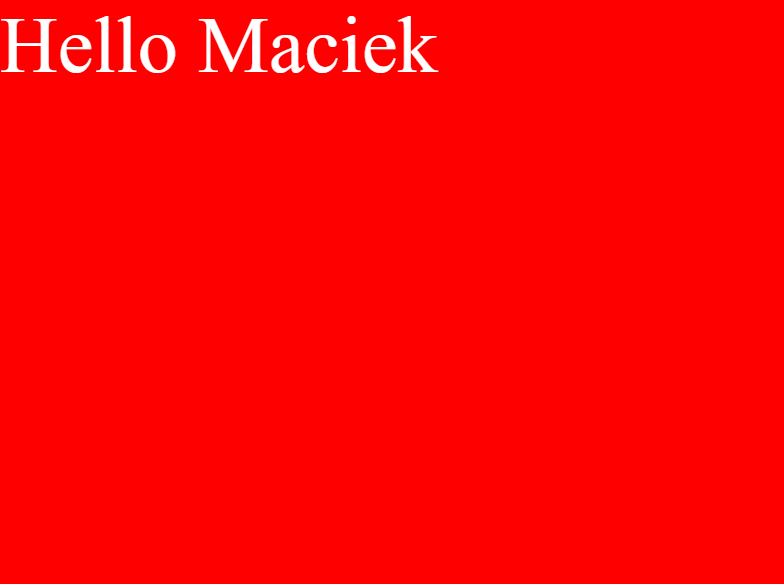
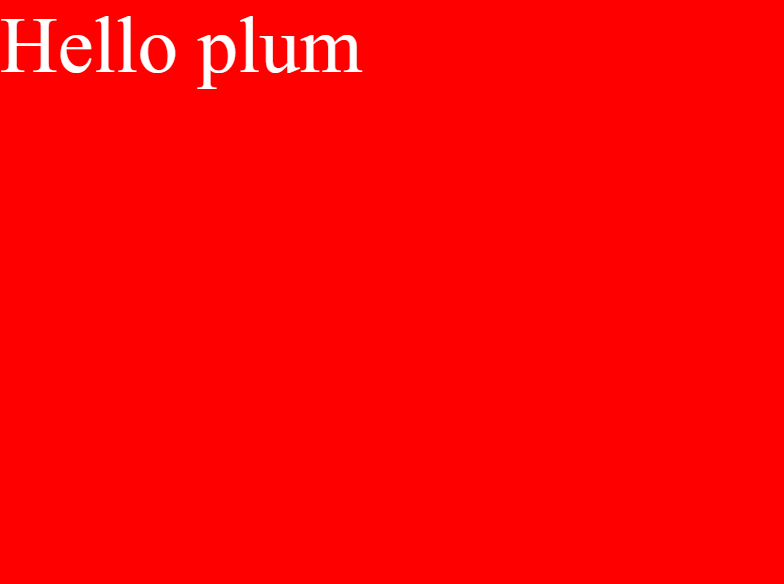
Beta version for posts

Changed region(s): [[0.2449, 0.0308, 0.551, 0.1541]]

diff --git a/index.js b/index.js
@@ -1,4 +1,7 @@
-const nodeHtmlToImage = require('node-html-to-image')
+const nodeHtmlToImage = require('node-html-to-image');
+const { hideBin } = require('yargs/helpers')
+const yargs = require('yargs');
+const argv = yargs(hideBin(process.argv)).argv
 
 nodeHtmlToImage({
   output: './image.png',
@@ -15,7 +18,7 @@ nodeHtmlToImage({
     <body>Hello {{ name }}</body>
   </html>
   `,
-  content: { name: 'Maciek' },
+  content: { name: argv.name },
   puppeteerArgs: { args: ['--no-sandbox'] }
 })
   .then(() => console.log('The image was created successfully!'))
